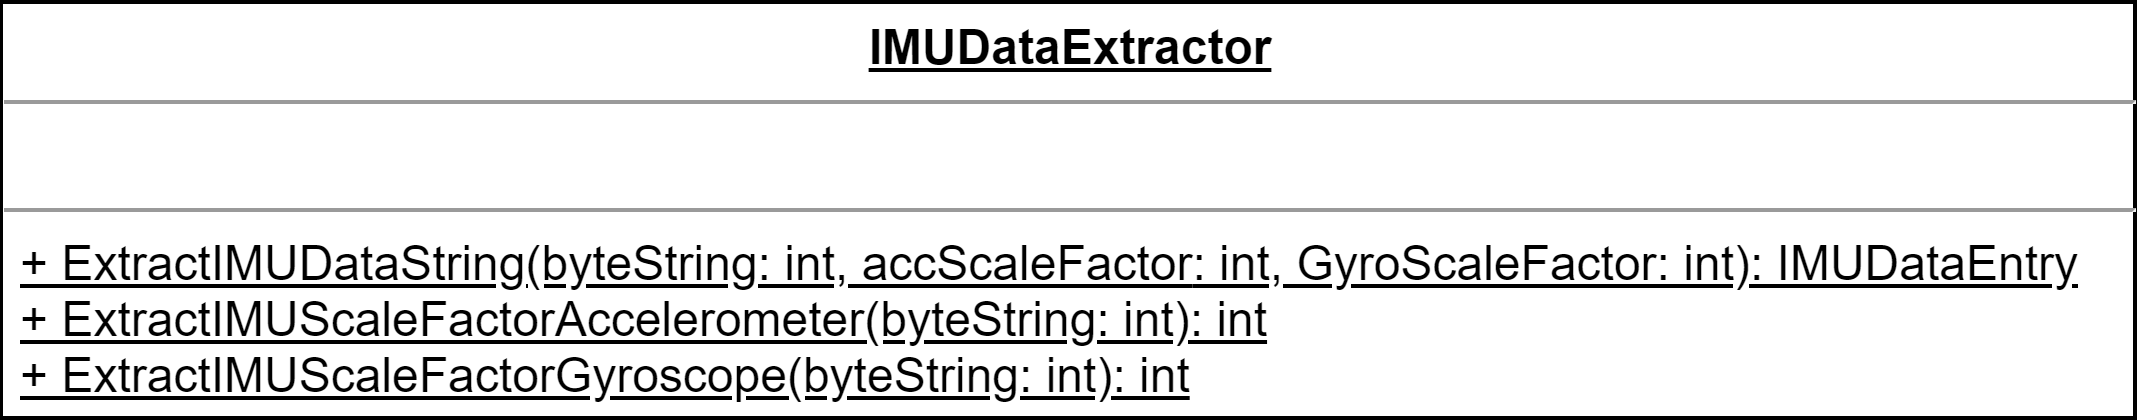
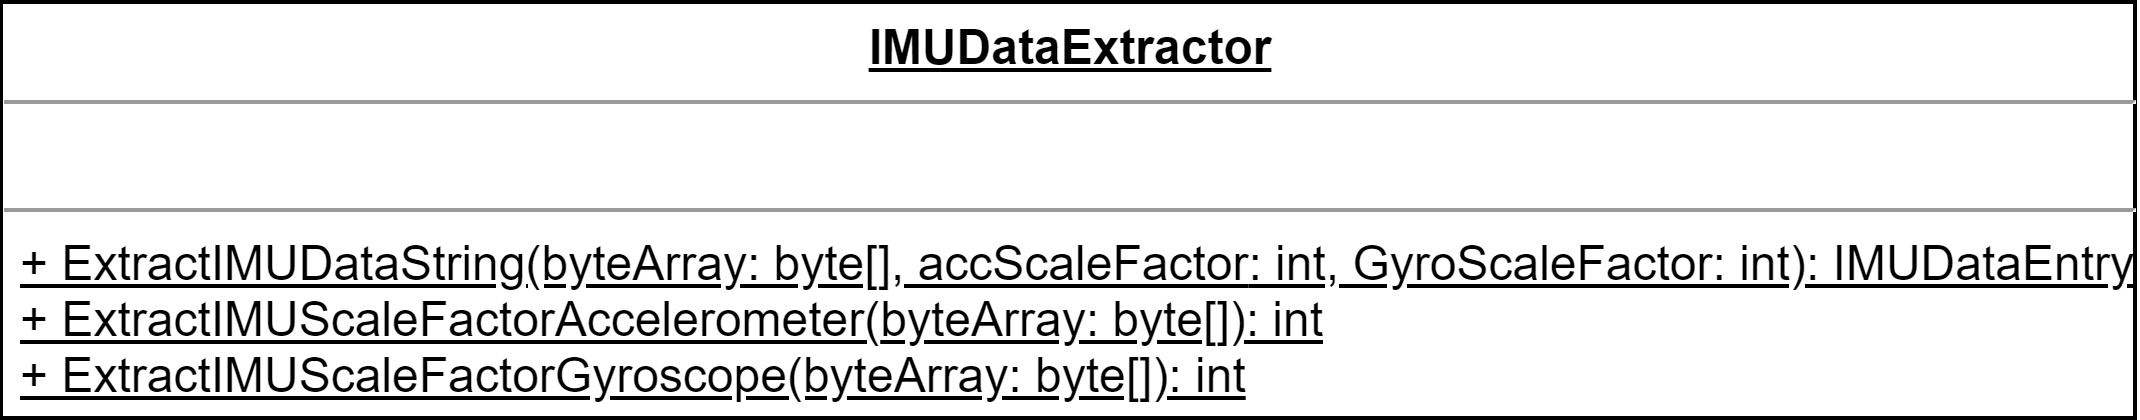
IMUDataExtractor gefixt in FINAL, COMPACT und im Dokumet. DeviceEventArgs/DataEventArgs in FINAL, COMPACT und im Dokument gefixt.

Changed region(s): [[0.2776, 0.5881, 1.0, 0.7119], [0.4009, 0.7119, 0.6168, 0.9595]]

diff --git a/Entwurf/Entwurfsdokument/entwurfprotokoll.tex b/Entwurf/Entwurfsdokument/entwurfprotokoll.tex
@@ -271,9 +271,9 @@ Interface nur um die Kommunikation mit den \Gls{Earables} kümmern muss. Sie ist
 
 \paragraph{Methoden:}
 \begin{itemize}
-	\item[+] \textbf{ExtractIMUDataString(byteString: int, accScaleFactor: int, GyroScaleFactor): IMUDataEntry}\\Diese Methode erstellt aus der übergebenen Bitfolge ein IMUDataEntry, indem sie die Informationen aus dem Bit string auswertet und in verschiedene Einheiten umrechnet. Zum Umrechnen benötigt sie noch den accScaleFactor und den gyroScaleFactor. Sie erzeugt ein neues IMUDataEntry Objekt und gibt es als Rückgabewert zurück.
-	\item[+] \textbf{ExtractIMUScaleFactorAccelerometer(byteString: int): int}\\Diese Methode berechnet aus dem übergebenen ByteString den Scale Factor für den Accelerometer, der beim extrahieren der IMU Daten gebraucht wird, und gibt diesen als Rückgabewert zurück.
-	\item[+] \textbf{ExtractIMUScaleFactorGyroscope(byteString: int): int}\\Diese Methode berechnet aus dem übergebenen ByteString den Scale Factor für das Gyroscope, der beim extrahieren der IMU Daten gebraucht wird, und gibt diesen als Rückgabewert zurück.
+	\item[+] \textbf{ExtractIMUDataString(byteArray: byte[], accScaleFactor: int, GyroScaleFactor): IMUDataEntry}\\Diese Methode erstellt aus dem übergebenen Bytearray ein IMUDataEntry, indem sie die Informationen aus dem Bytearray auswertet und in verschiedene Einheiten umrechnet. Zum Umrechnen benötigt sie noch den accScaleFactor und den gyroScaleFactor. Sie erzeugt ein neues IMUDataEntry Objekt und gibt es als Rückgabewert zurück.
+	\item[+] \textbf{ExtractIMUScaleFactorAccelerometer(byteArray: byte[]): int}\\Diese Methode berechnet aus dem übergebenen Bytearray den Scale Factor für den Accelerometer, der beim extrahieren der IMU Daten gebraucht wird, und gibt diesen als Rückgabewert zurück.
+	\item[+] \textbf{ExtractIMUScaleFactorGyroscope(byteArray: byte[]): int}\\Diese Methode berechnet aus dem übergebenen Bytearray den Scale Factor für das Gyroscope, der beim extrahieren der IMU Daten gebraucht wird, und gibt diesen als Rückgabewert zurück.
 \end{itemize}
 
 
